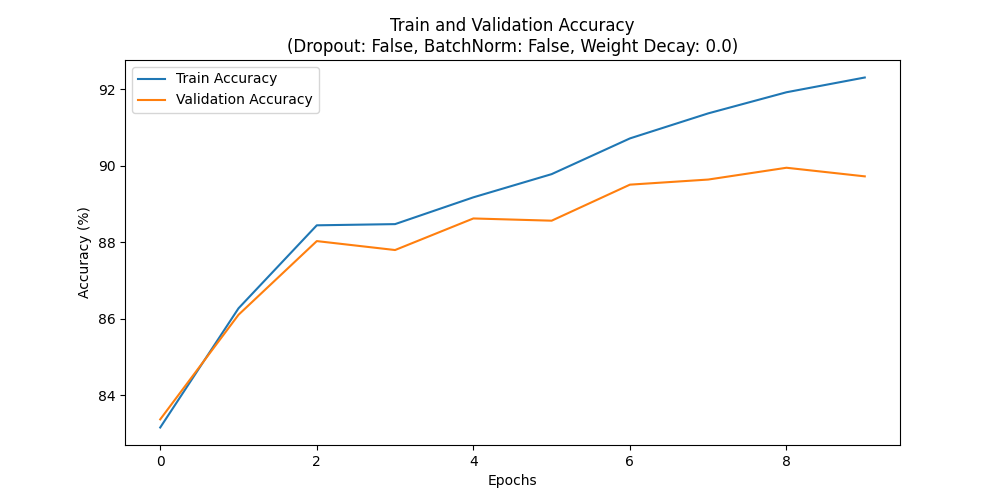
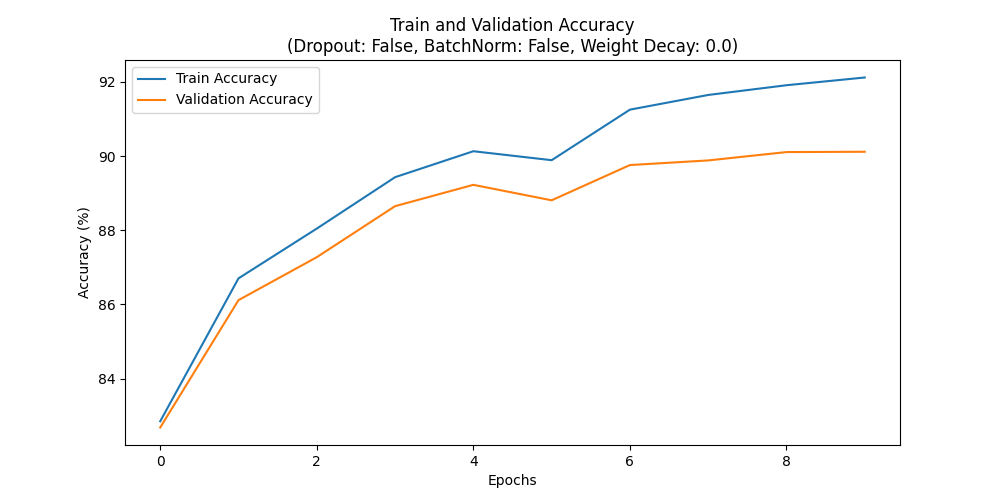
Added table for accuracies

diff --git a/code/main.py b/code/main.py
@@ -18,7 +18,7 @@ def main():
     
     # Initialize model
     use_dropout = False  # Toggle this to True/False to enable/disable dropout
-    use_batchnorm = True  # Toggle this to True/False to enable/disable batch normalization
+    use_batchnorm = False  # Toggle this to True/False to enable/disable batch normalization
     weight_decay = 0.000  # Set this to 0 to disable weight decay
     
     model = LeNet5(use_dropout=use_dropout, use_batchnorm=use_batchnorm).to(device)
